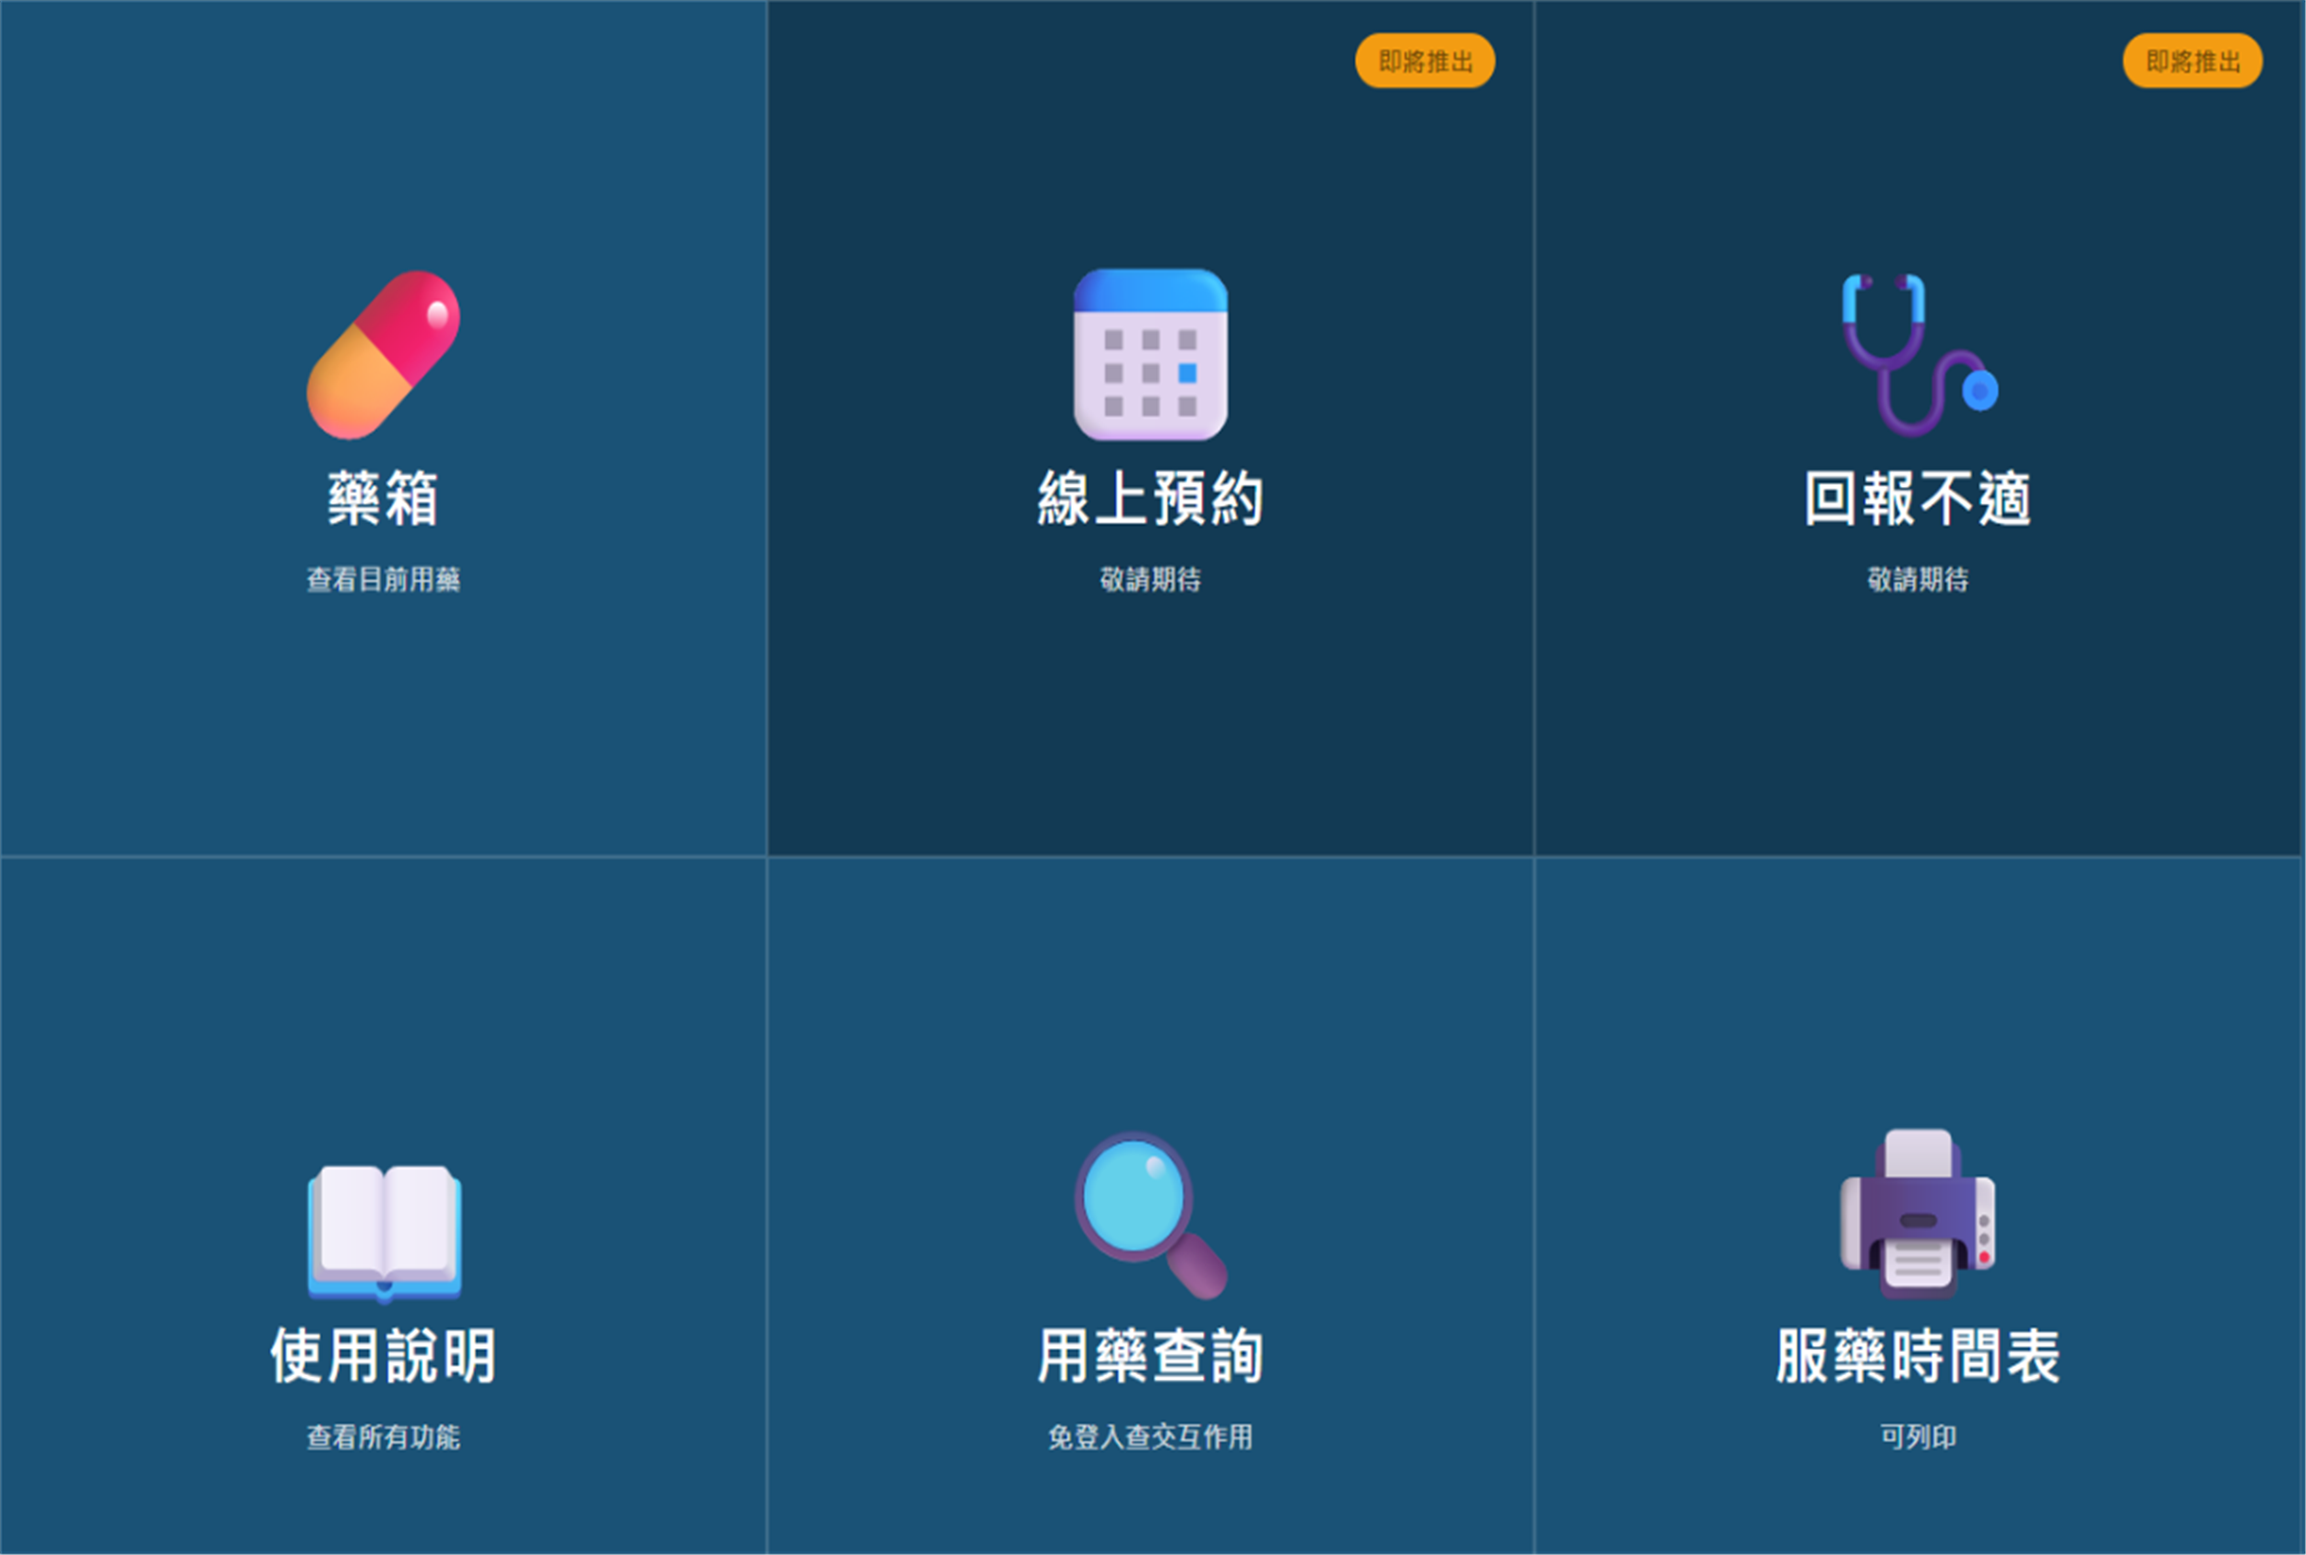
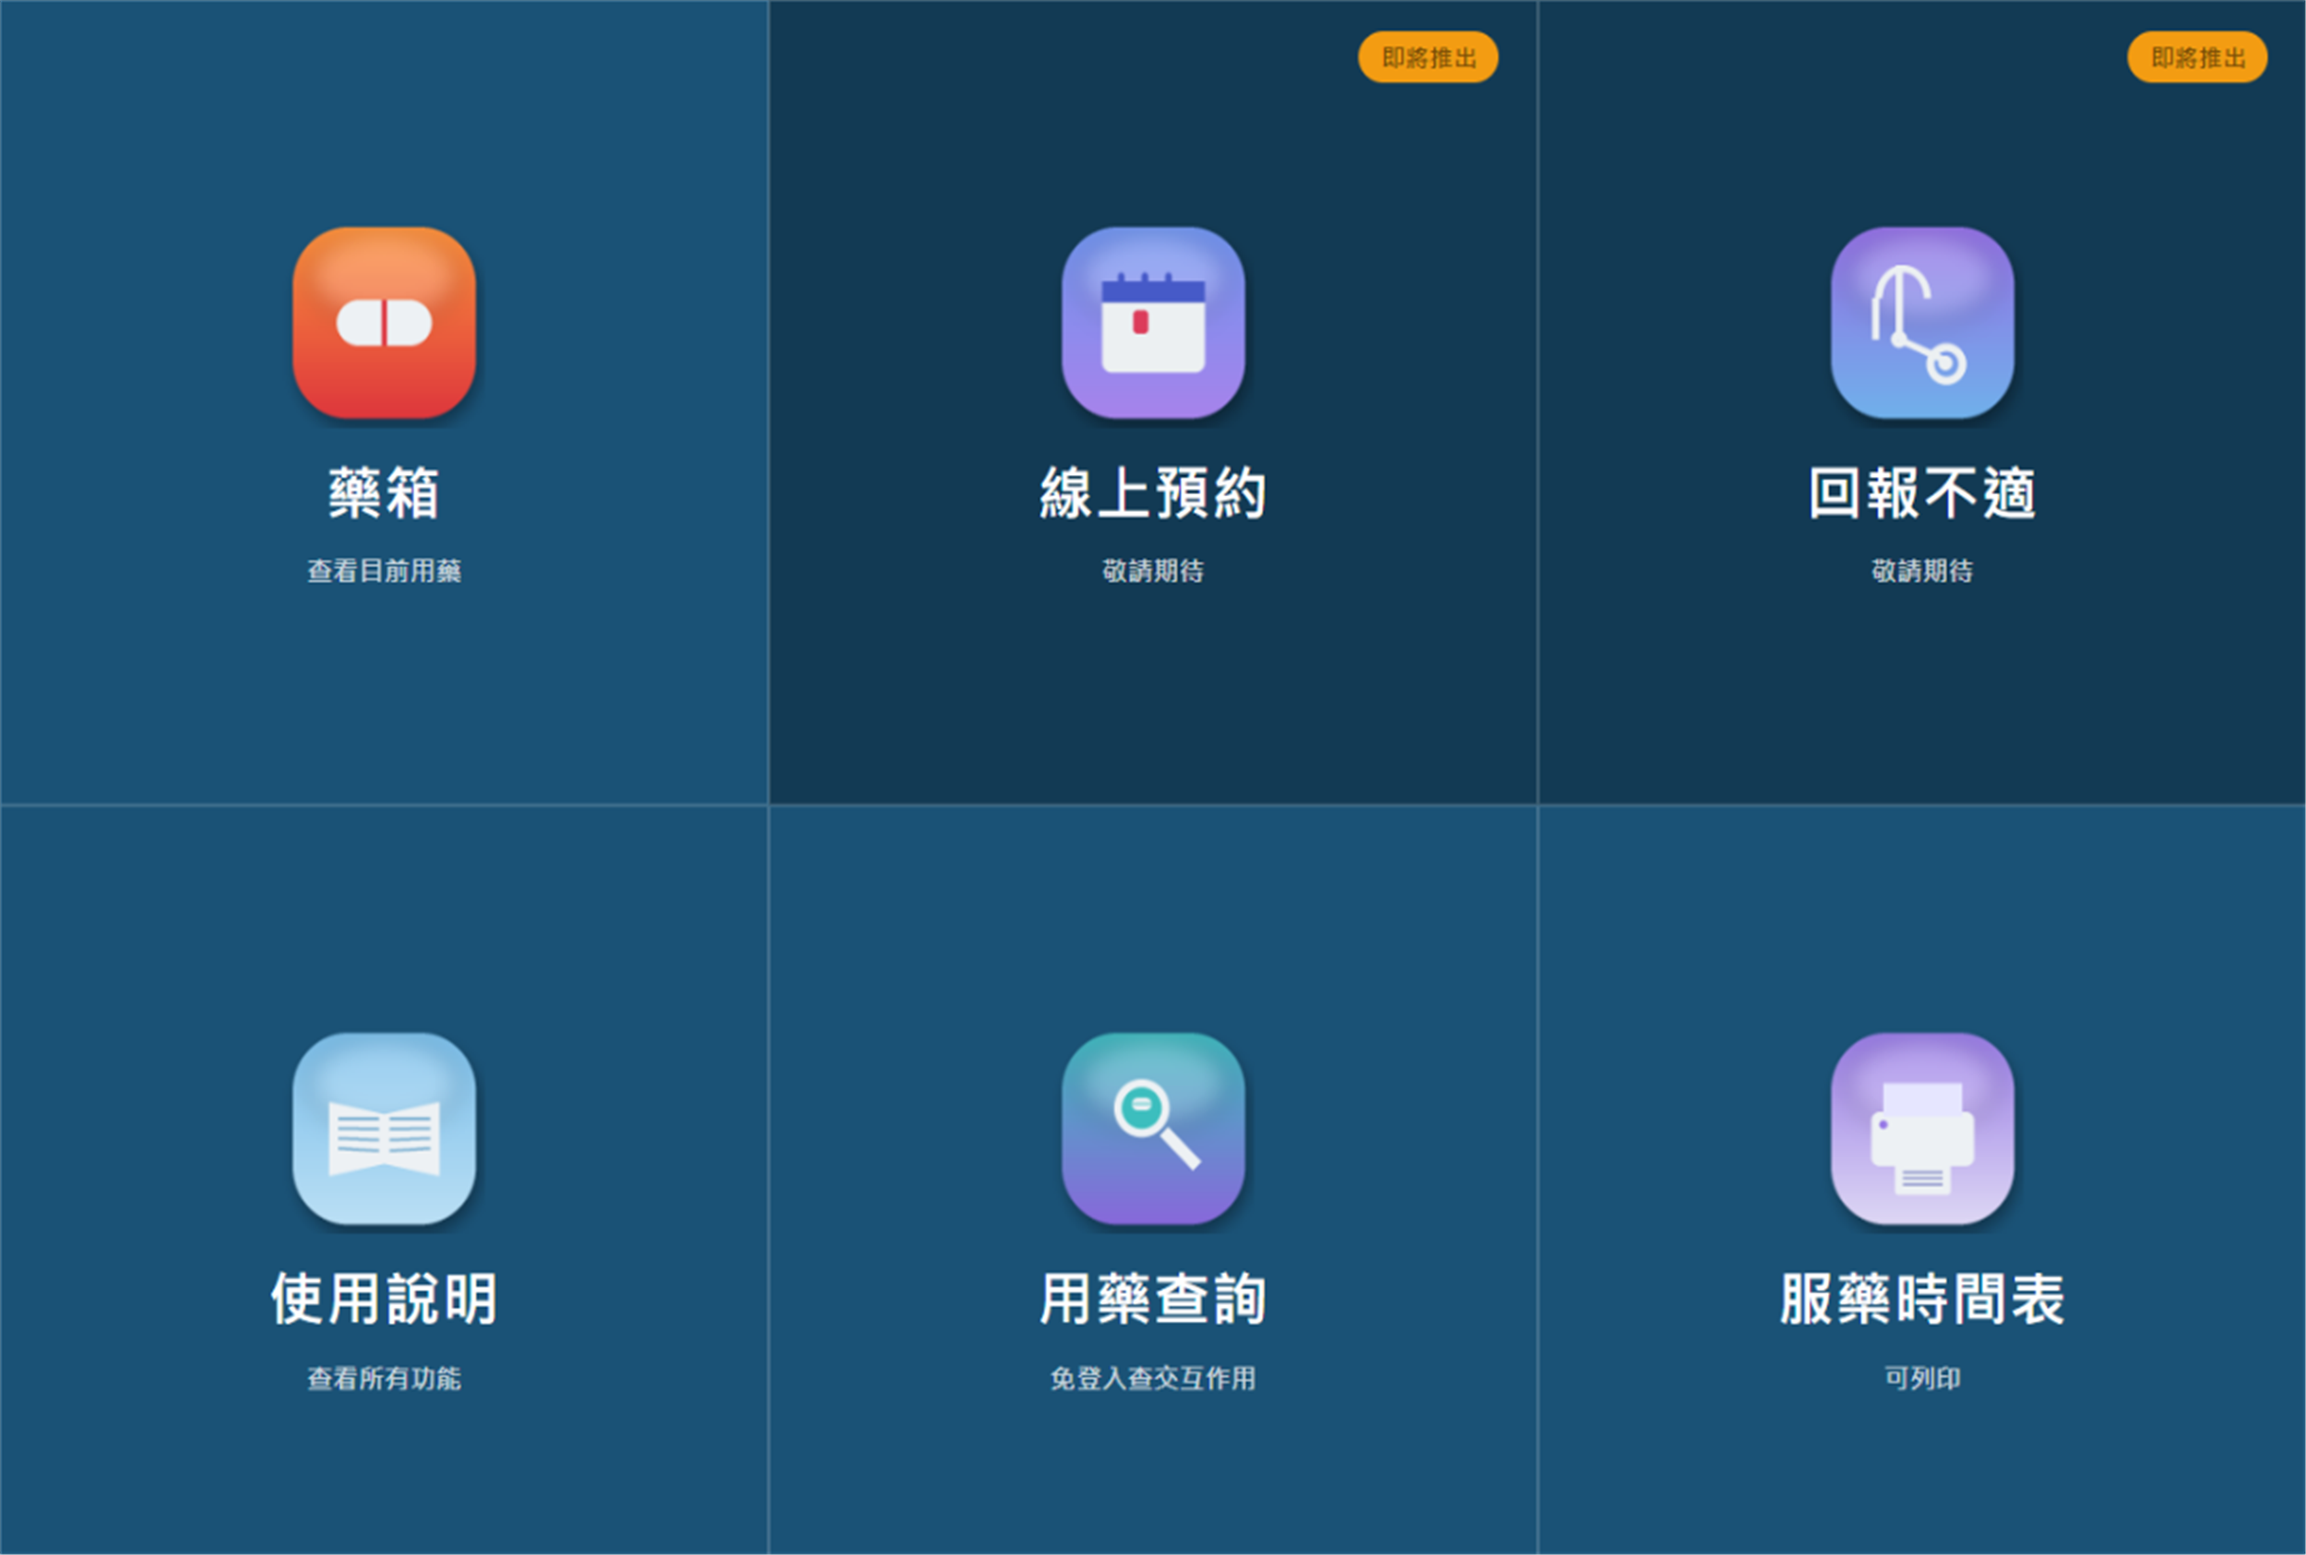
feat(line): Rich Menu 六宮格改用自訂圖示，取代 emoji
functions/assets/richmenu-icons/ 六個圖示取代原本的 Unicode emoji
（跨裝置/字型渲染不一致的疑慮），統一漸層徽章風格，透明背景可疊在
選單底色上。新增 functions/assets/richmenu-source.html 作為選單圖片
的排版原始檔（img 標籤取代 emoji span），之後要調整版型或圖示直接
改這份、截圖存回 richmenu.png，不要手動修圖。

richmenu-icons/README.md 已標注：這批是 PIL 產生的佔位圖（漸層徽章
+ 白色線稿），非真正的 AI 生圖成品；替換成正式版的 prompt 已交給使用者。

Claude-Session: https://claude.ai/code/session_0191zCVhq5cBLuQtQxx7NACj

diff --git a/functions/assets/richmenu-source.html b/functions/assets/richmenu-source.html
@@ -1,0 +1,79 @@
+<!doctype html>
+<!--
+  LINE Rich Menu 圖片的產生原始檔。不是給使用者瀏覽的頁面，是拿來截圖
+  合成 richmenu.png 用的版面。改動選單內容（文字、圖示、開發中狀態）
+  時改這個檔案，然後用瀏覽器在 2500x1686 的畫布下截圖存回
+  functions/assets/richmenu.png，不要直接手動修圖。
+
+  六格圖示來自 functions/assets/richmenu-icons/（AI 生圖，見該資料夾
+  README.md 的 prompt 紀錄），本檔只負責排版。
+-->
+<html>
+<head>
+<meta charset="utf-8">
+<style>
+  * { margin:0; padding:0; box-sizing:border-box; }
+  html,body { width:2500px; height:1686px; overflow:hidden; }
+  body {
+    font-family: -apple-system, "Segoe UI", "PingFang TC", "Microsoft JhengHei", sans-serif;
+    display:grid;
+    grid-template-columns: 1fr 1fr 1fr;
+    grid-template-rows: 1fr 1fr;
+    background:#1A5276;
+  }
+  .cell {
+    position:relative;
+    display:flex;
+    flex-direction:column;
+    align-items:center;
+    justify-content:center;
+    gap:24px;
+    border: 3px solid rgba(255,255,255,0.16);
+  }
+  .icon { width:220px; height:220px; }
+  .label { font-size:62px; font-weight:800; color:#fff; letter-spacing:1px; }
+  .sub { font-size:28px; font-weight:600; color:rgba(255,255,255,0.75); }
+  .live { background:#1A5276; }
+  .soon { background:#123A54; }
+  .badge {
+    position:absolute; top:32px; right:40px;
+    background:#F39C12; color:#7A4E06; font-weight:800; font-size:26px;
+    padding:9px 24px; border-radius:999px;
+  }
+</style>
+</head>
+<body>
+  <div class="cell live">
+    <img class="icon" src="richmenu-icons/med-box.png">
+    <div class="label">藥箱</div>
+    <div class="sub">查看目前用藥</div>
+  </div>
+  <div class="cell soon">
+    <img class="icon" src="richmenu-icons/appointment.png">
+    <div class="label">線上預約</div>
+    <div class="sub">敬請期待</div>
+    <div class="badge">即將推出</div>
+  </div>
+  <div class="cell soon">
+    <img class="icon" src="richmenu-icons/symptom.png">
+    <div class="label">回報不適</div>
+    <div class="sub">敬請期待</div>
+    <div class="badge">即將推出</div>
+  </div>
+  <div class="cell live">
+    <img class="icon" src="richmenu-icons/guide.png">
+    <div class="label">使用說明</div>
+    <div class="sub">查看所有功能</div>
+  </div>
+  <div class="cell live">
+    <img class="icon" src="richmenu-icons/drug-check.png">
+    <div class="label">用藥查詢</div>
+    <div class="sub">免登入查交互作用</div>
+  </div>
+  <div class="cell live">
+    <img class="icon" src="richmenu-icons/schedule.png">
+    <div class="label">服藥時間表</div>
+    <div class="sub">可列印</div>
+  </div>
+</body>
+</html>

diff --git a/functions/assets/richmenu-icons/README.md b/functions/assets/richmenu-icons/README.md
@@ -1,0 +1,32 @@
+# Rich Menu Icons — 佔位圖示
+
+**建立日期**：2026-09-10
+**狀態**：⚠ 佔位圖（placeholder），不是最終版本
+
+## 說明
+
+這批圖是用 Python/PIL 產生的簡化版扁平圖示（圓角漸層徽章 + 白色線稿圖形），
+**不是**用 AI 圖片生成模型跑出來的「glossy 3D icon」成品。目前 session 沒有接
+AI 圖片生成工具，所以先用程式畫出功能正確、檔名正確、透明背景的佔位版本，
+讓 Rich Menu 的程式邏輯可以先開發、先測試，不用卡在等圖。
+
+## 對應表
+
+| 檔名 | 功能 | 目前佔位設計 |
+|---|---|---|
+| `med-box.png` | 藥箱／查看用藥 | 橘紅漸層徽章 + 白色膠囊 |
+| `appointment.png` | 線上預約 | 藍紫漸層徽章 + 白色月曆（含標示日期） |
+| `symptom.png` | 回報不適 | 紫藍漸層徽章 + 白色聽診器線稿 |
+| `guide.png` | 使用說明 | 淺藍漸層徽章 + 白色翻開書本 |
+| `drug-check.png` | 用藥查詢 | 青紫漸層徽章 + 白色放大鏡+膠囊 |
+| `schedule.png` | 服藥時間表 | 紫白漸層徽章 + 白色印表機出紙 |
+
+## 換成正式版的做法
+
+1. 把原本你寫的六段 prompt（統一風格 + 各自主體描述）貼到 AI 圖片生成工具
+   （例如 ChatGPT/DALL·E、Midjourney、Gemini 的圖片生成）。
+2. 產出後另存成同樣的檔名，直接覆蓋這個資料夾裡對應的檔案即可，程式碼裡的
+   路徑不用改。
+3. 建議確認尺寸與 LINE Rich Menu 規格相符（LINE 官方建議 2500×1686 或
+   2500×843，實際切版時依你的選單版型調整；這批佔位圖是 512×512 純圖示，
+   套版時可能需要再排版）。
